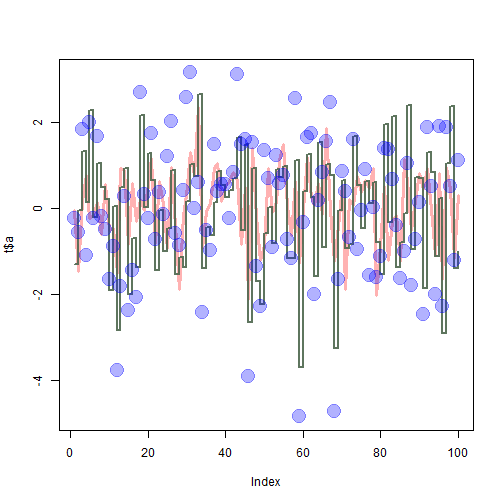
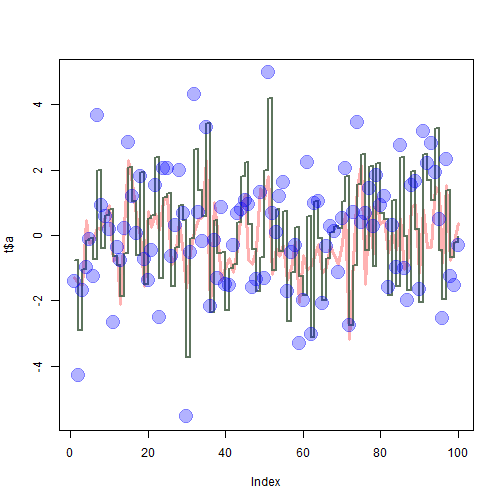
Assignment 0

diff --git a/SRT411-Assignment-0.md b/SRT411-Assignment-0.md
@@ -144,7 +144,7 @@ sd(t$a+t$b+t$c)
 ```
 
 ```
-## [1] 3.422464
+## [1] 4.090781
 ```
 
 <hr>
@@ -339,9 +339,8 @@ a (arg1 = -5, arg2 = 95)
 <br>
 
 #### Sources
-
-<a href="www.google.com">google</a>
-<p>R Markdown: http://rmarkdown.rstudio.com/</p>
+a href="www.google.com">google</a>
+<p><a href="http://rmarkdown.rstudio.com/>R Markdown</a></p>
 <p>Writing Reports in R with Markdown, Knitr and Pandoc: http://nicercode.github.io/guides/reports/</p>
 <p>Knitr in a Nutshell: http://kbroman.org/knitr_knutshell/pages/markdown.html</p>
 <p>R Markdown with Knitr: http://kbroman.org/knitr_knutshell/pages/Rmarkdown.html</p>
